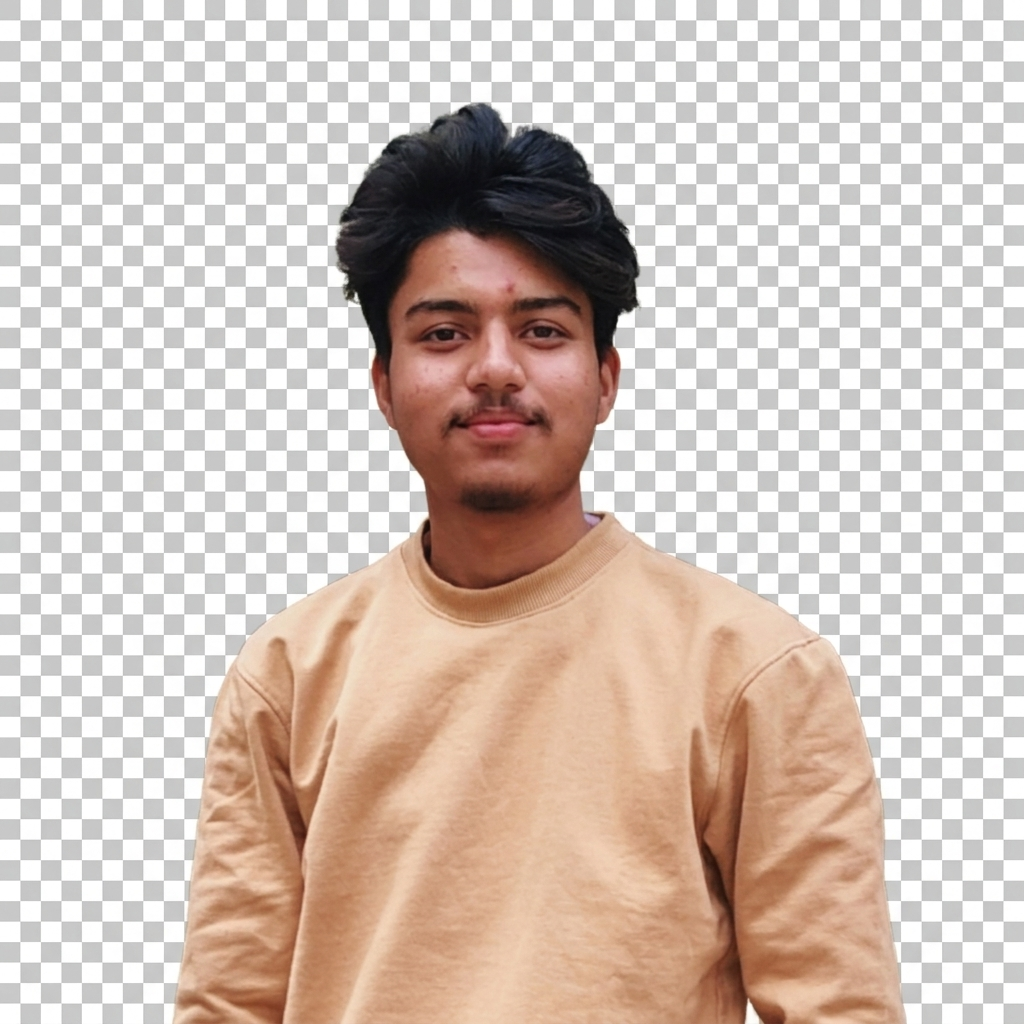
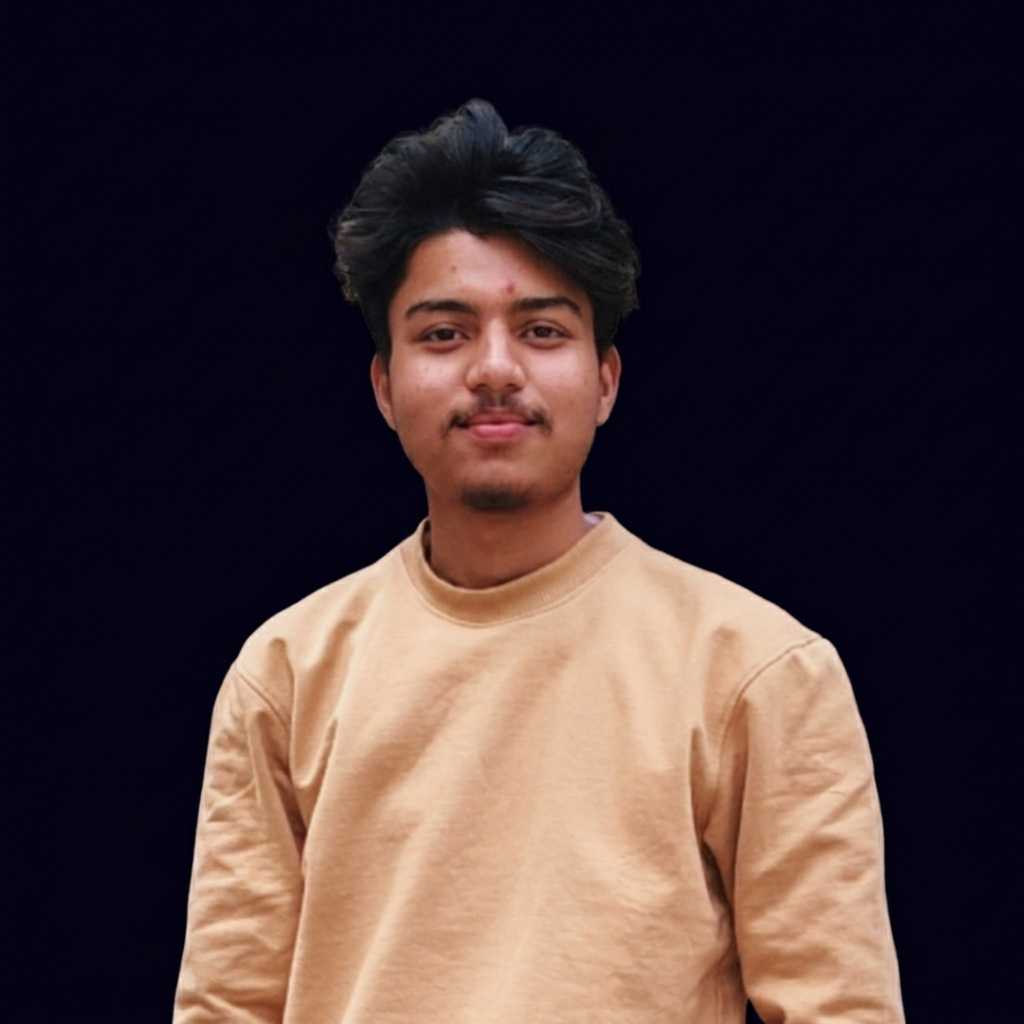
Clean cutout profile with dark bg, portrait layout, bottom fade, backlight glow

diff --git a/index.html b/index.html
@@ -112,9 +112,11 @@
         @keyframes hero-slide-up{to{opacity:1;transform:translateY(0);}}
 
         /* Profile Image + Orbit container */
-        .profile-container{position:relative;width:260px;height:260px;margin:0 auto 30px;}
-        .profile-ring{position:relative;width:200px;height:200px;margin:0 auto;border-radius:50%;}
-        .profile-ring img{position:relative;width:100%;height:100%;border-radius:50%;object-fit:cover;object-position:top;border:none;background:transparent;}
+        .profile-container{position:relative;width:260px;height:300px;margin:0 auto 10px;}
+        .profile-ring{position:relative;width:240px;height:280px;margin:0 auto;overflow:hidden;}
+        .profile-ring::after{content:'';position:absolute;bottom:0;left:0;width:100%;height:40%;background:linear-gradient(to top, var(--bg-primary) 0%, transparent 100%);z-index:2;pointer-events:none;}
+        .profile-ring::before{content:'';position:absolute;top:30%;left:50%;transform:translateX(-50%);width:180px;height:180px;border-radius:50%;background:radial-gradient(circle, rgba(124,58,237,0.25) 0%, rgba(236,72,153,0.15) 40%, transparent 70%);filter:blur(30px);z-index:0;}
+        .profile-ring img{position:relative;width:100%;height:100%;object-fit:cover;object-position:top;border:none;background:transparent;z-index:1;}
 
         /* Decorative floating dots around profile */
         .profile-deco{position:absolute;border-radius:50%;}
@@ -363,9 +365,9 @@
 
             #hero{min-height:100svh;padding:100px 20px 80px;}
             .hero-content h1{font-size:2.4rem;}
-            .profile-container{width:210px;height:210px;}
-            .profile-ring{width:160px;height:160px;}
-            .orbit-ring{width:210px;height:210px;margin-left:-105px;margin-top:-105px;}
+            .profile-container{width:220px;height:260px;}
+            .profile-ring{width:200px;height:240px;}
+            .orbit-ring{width:220px;height:260px;margin-left:-110px;margin-top:-130px;}
             .orbit-icon{width:30px;height:30px;font-size:0.75rem;}
             .orbit-icon:nth-child(1){top:-15px;margin-left:-15px;}
             .orbit-icon:nth-child(2){right:-15px;margin-top:-15px;}
